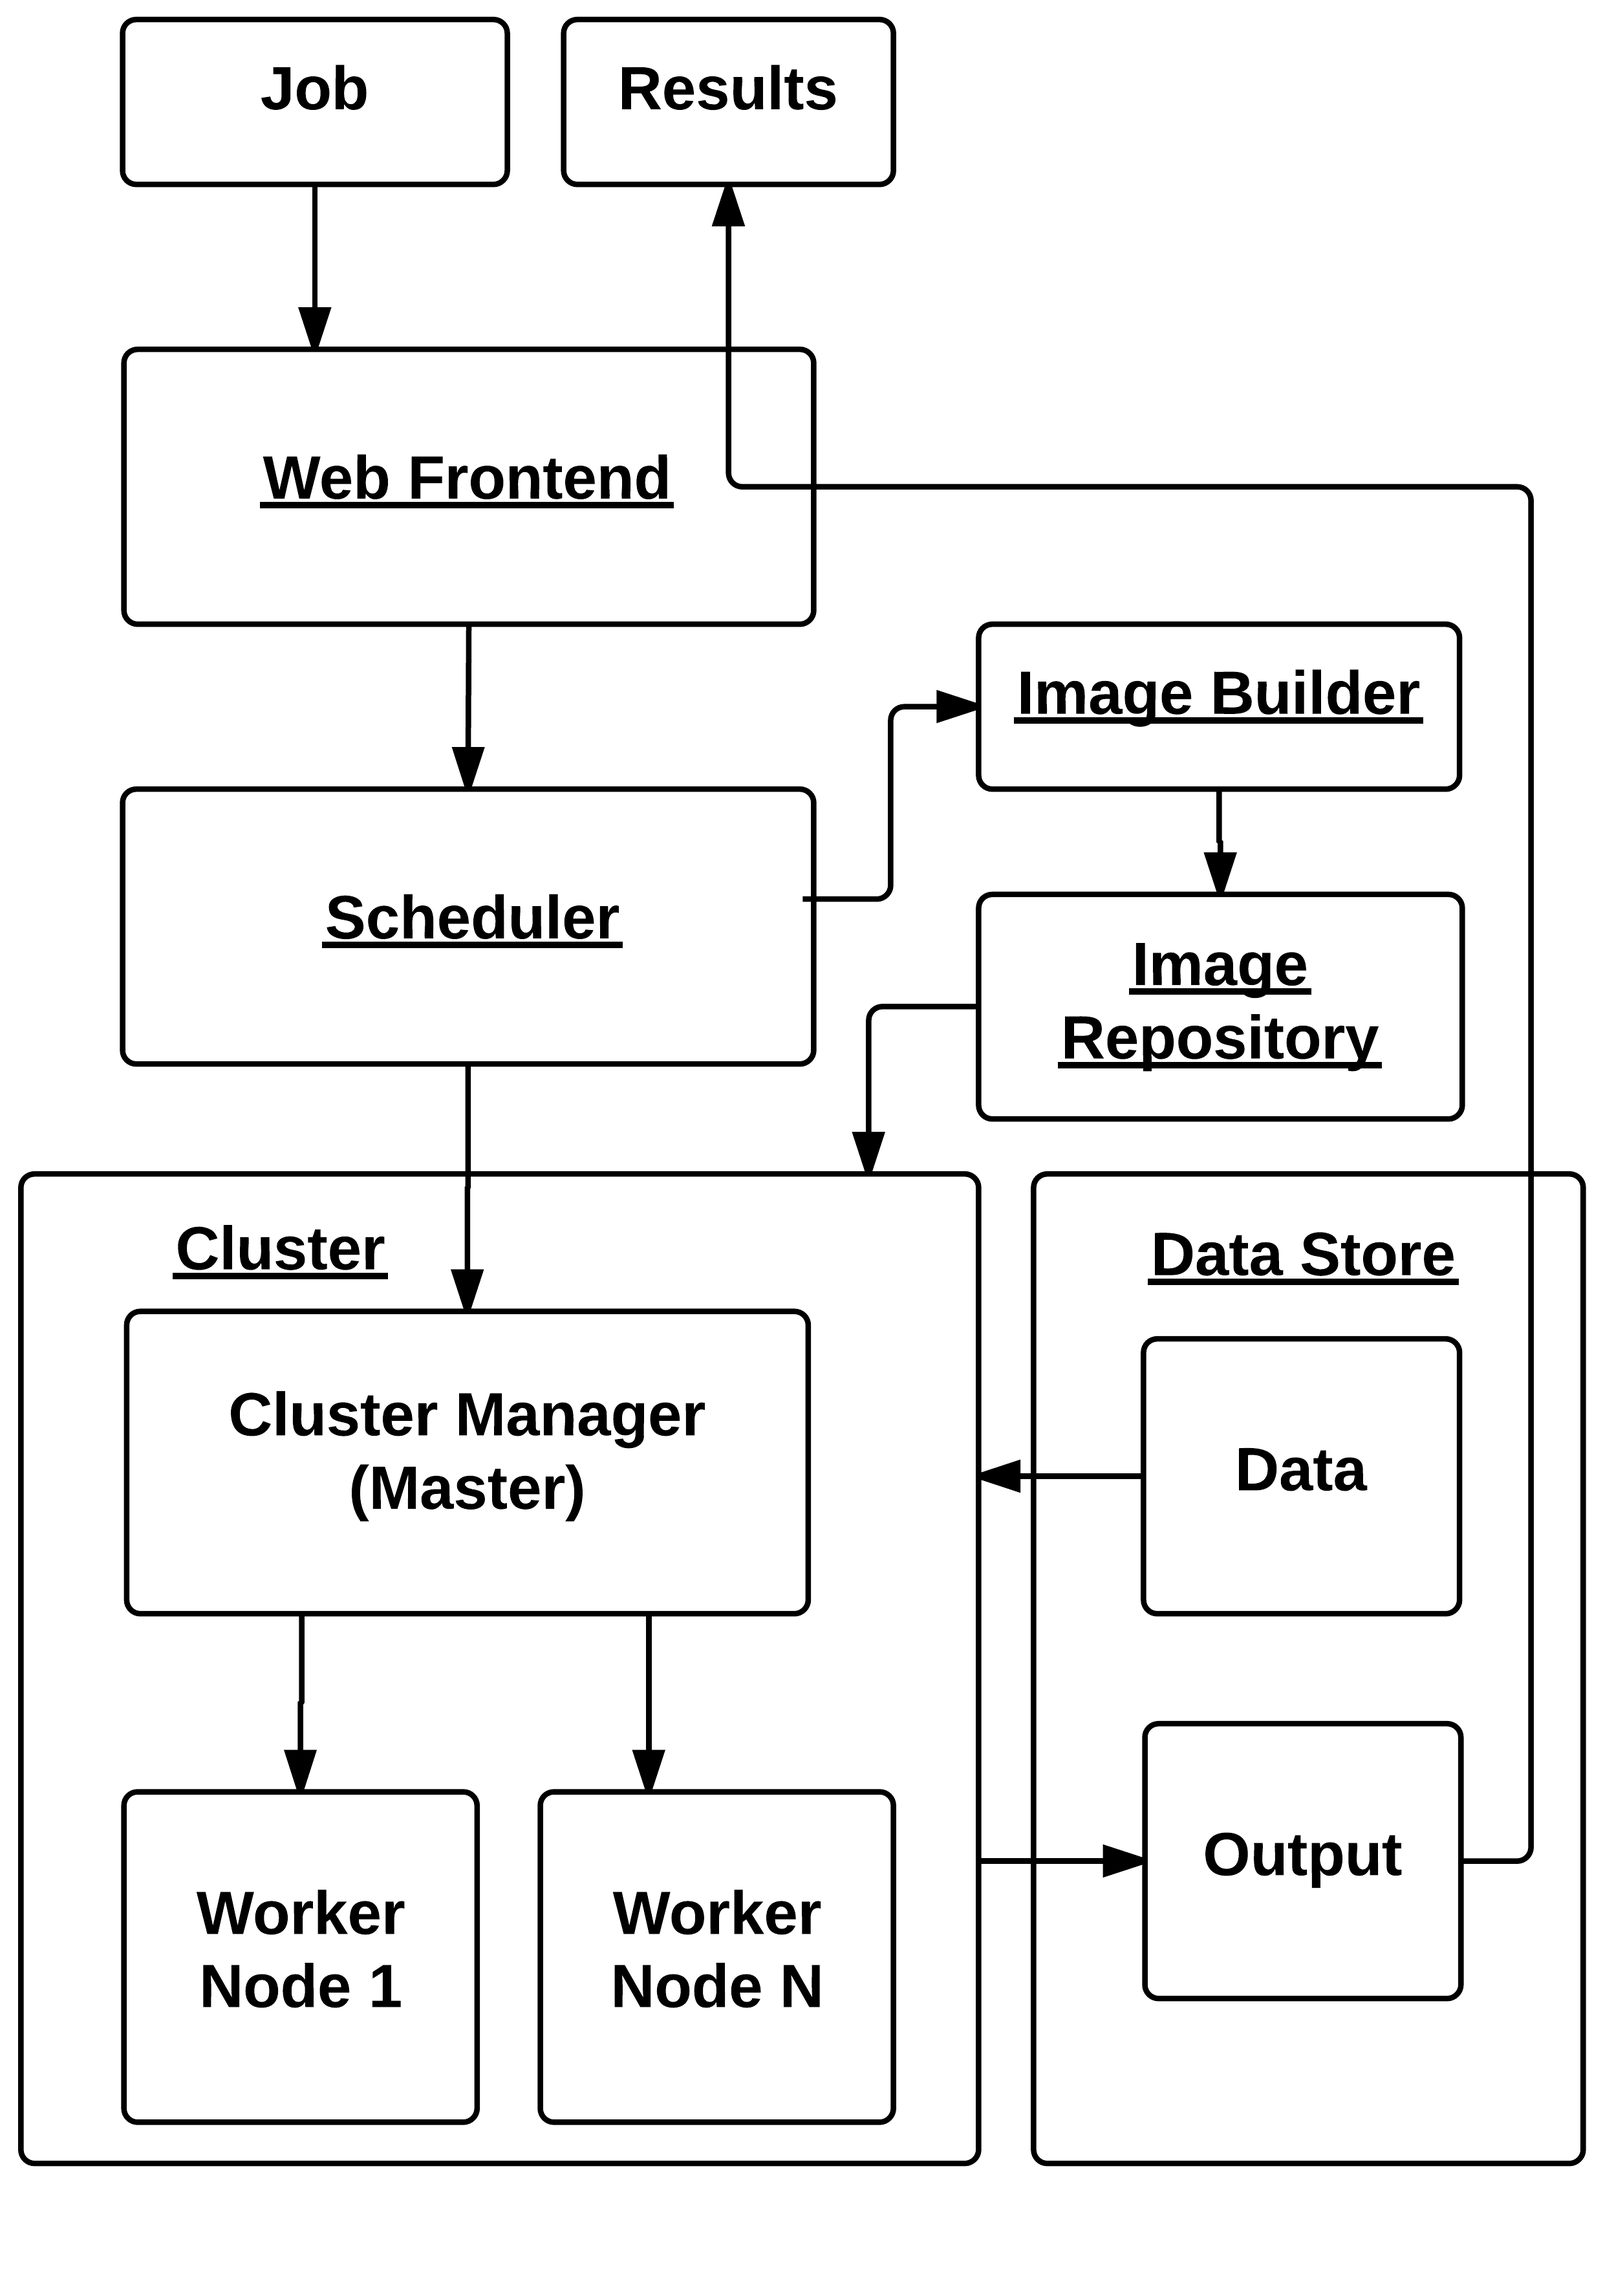
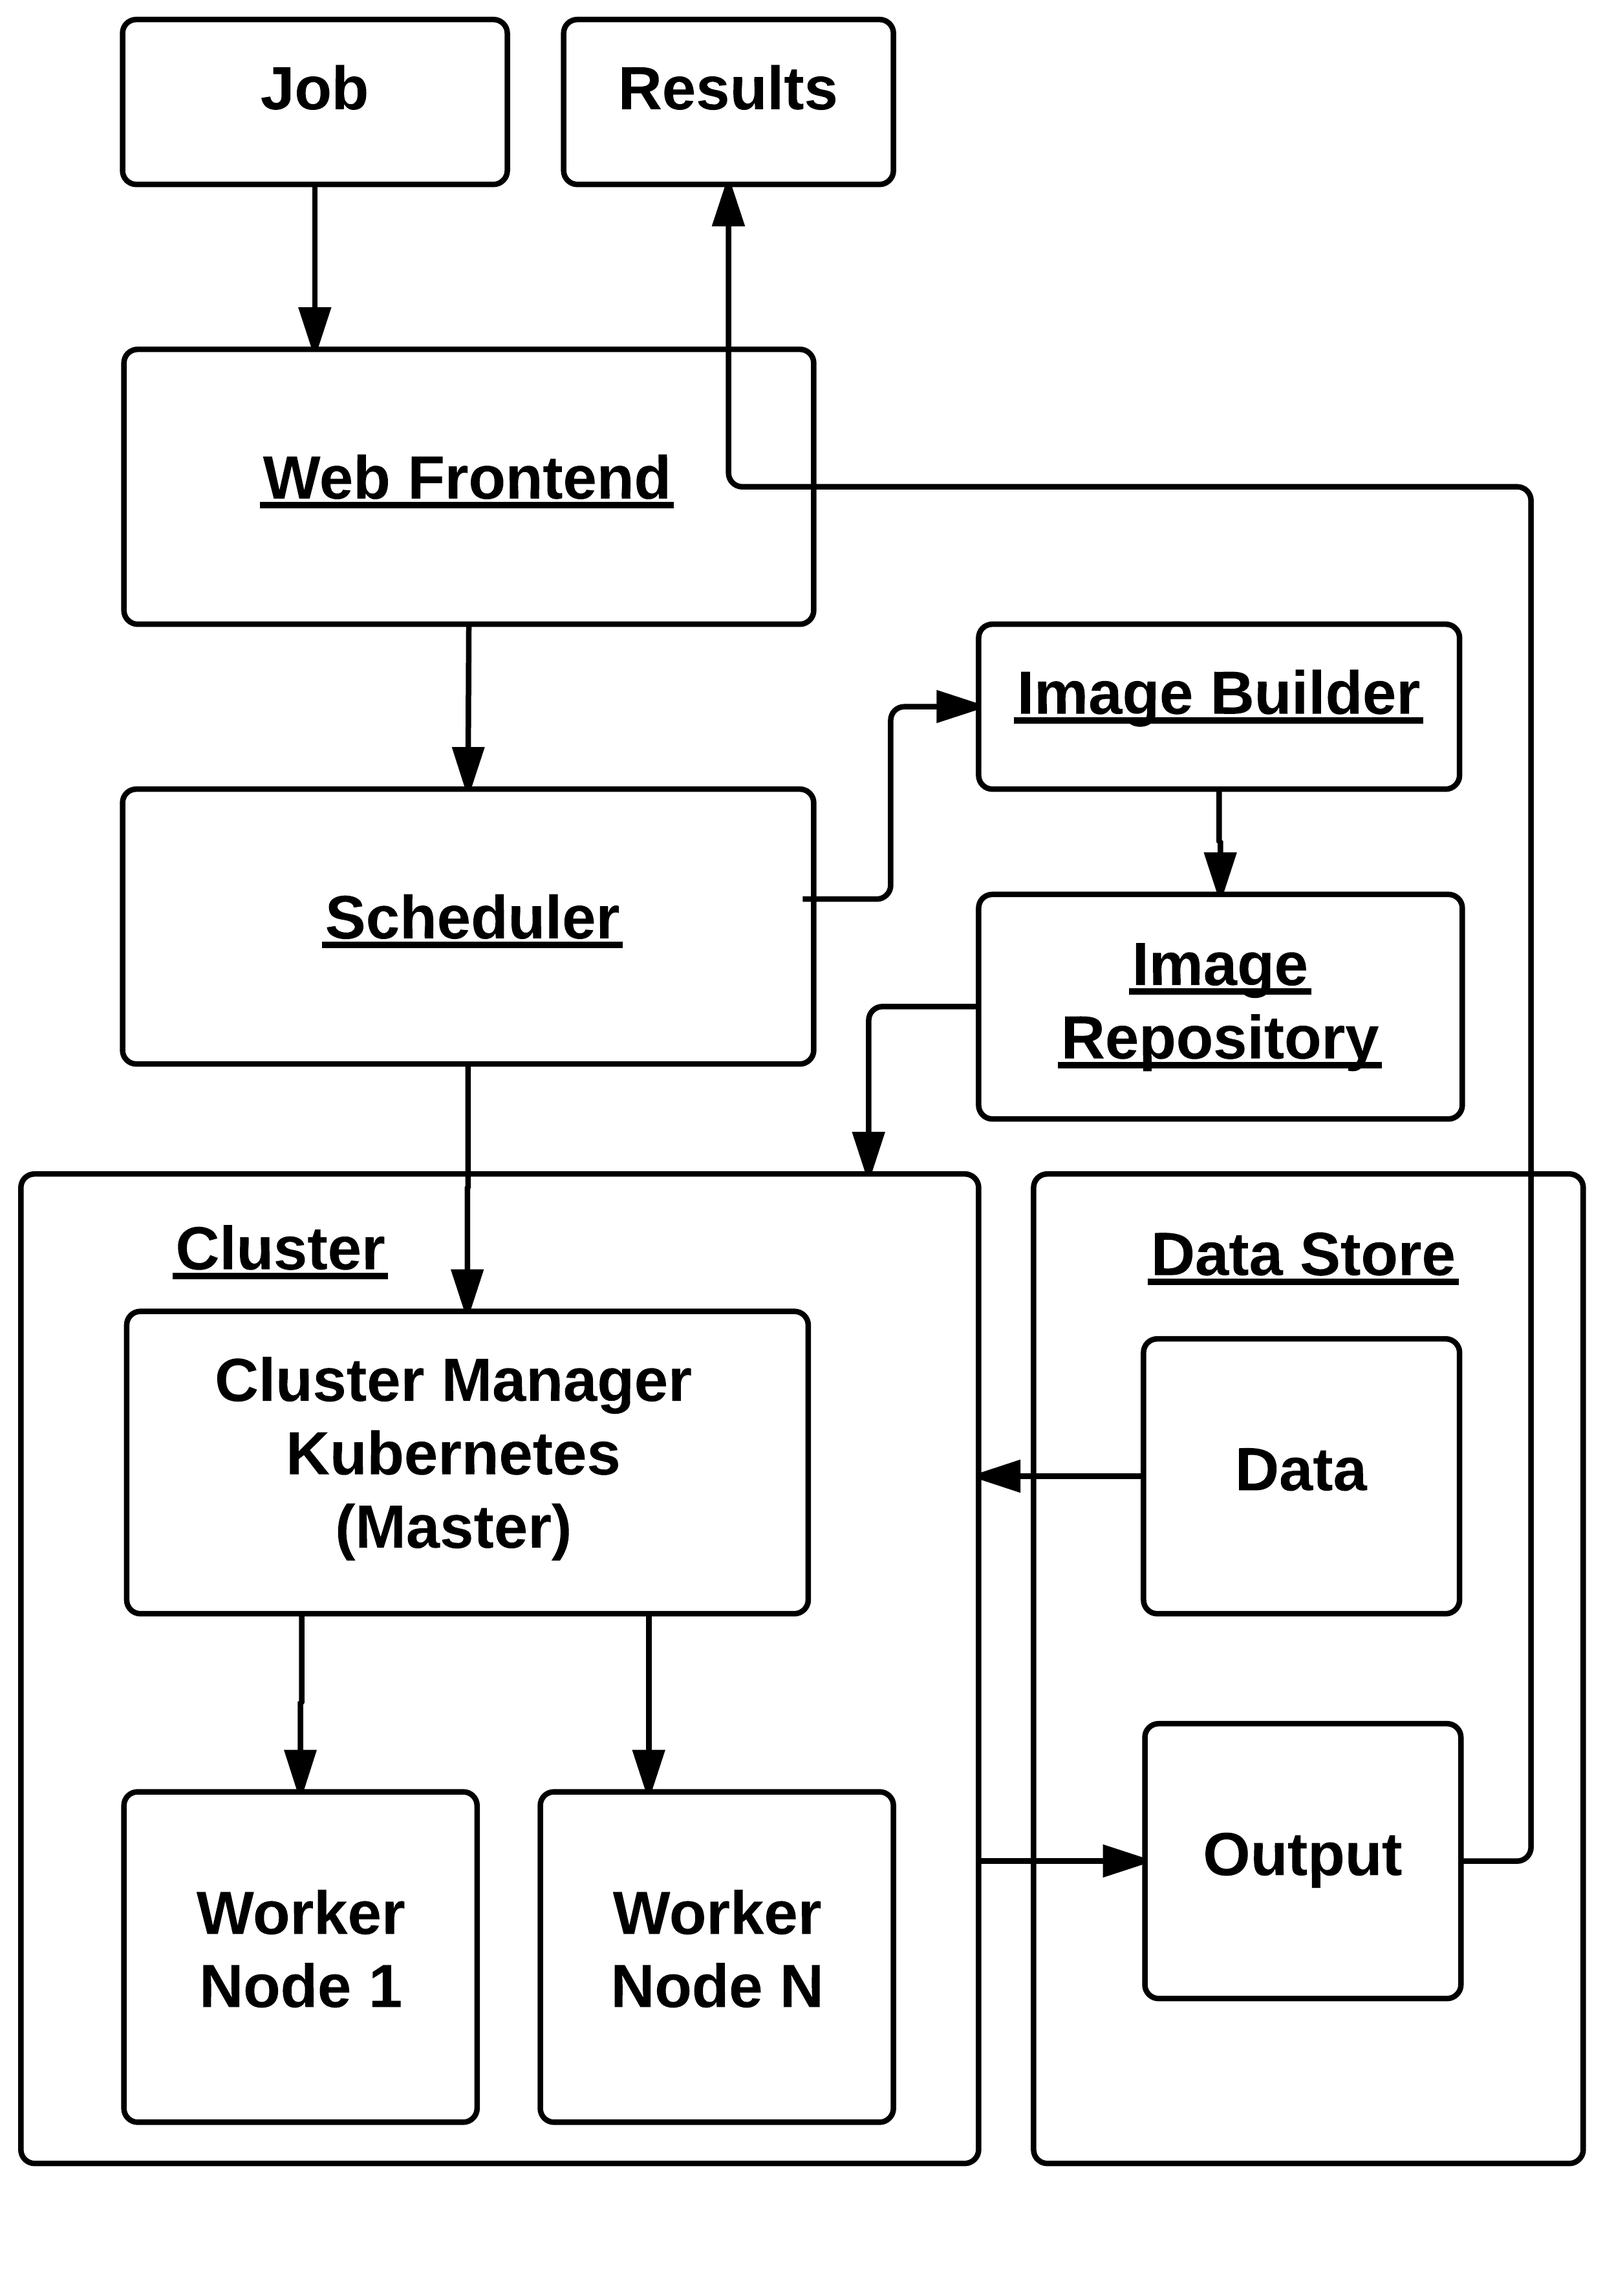
paper progress...

Changed region(s): [[0.125, 0.5921, 0.4375, 0.6856]]

diff --git a/latex/microcloud.tex b/latex/microcloud.tex
@@ -131,9 +131,6 @@ A community cloud is formed by implementing a centralised discovery service. Thi
 \end{figure}
 
 
-\subsection{Constraints}
-Micro cloud deployments for evaluation are limited to UWC. The evaluation was done on one community cloud containing two micro clouds. Each micro cloud was deployed on a single virtual machine (VM) as a single node cluster. Each VM has 1GB RAM, a single cpu, and 10GB of storage. Two 100Gb RBDs were provided, one for raw data and one for storing results. Due to both clusters residing on the same network, both clusters made use of the same storage. This would not be the case if each cluster was deployed at a different institution, but for the purposes of the evaluation it is not important.
-
 \subsection{Software Engineering}
 
 We implemented a proof-of-concept of the community cloud. The aim was not to focus on software engineering methodologies. However, to allow for reproducibility the source code is stored in a Git repository hosted on Github (Git is a version control system). All the components are containerized so a cluster can easily be deployed by running a few docker containers. This allows greater portability and reproducibility. 
@@ -142,6 +139,8 @@ We implemented a proof-of-concept of the community cloud. The aim was not to foc
 
 
 \subsection{Evaluation}
+Micro cloud deployments for evaluation are limited to UWC. The evaluation was done on one community cloud containing two micro clouds. Each micro cloud was deployed on a single virtual machine (VM) as a single node cluster. Each VM has 1GB RAM, a single cpu, and 10GB of storage. Two 100Gb RBDs were provided, one for raw data and one for storing results. Due to both clusters residing on the same network, both clusters made use of the same storage. This would not be the case if each cluster was deployed at a different institution, but for the purposes of the evaluation it is not important.
+\\\\
 The functionality of the micro cloud is evaluated by submitting sample Bioinformatics analysis code as a job. The analysis code searches against a genome database. We chose a database that is publicly hosted by the National Center for Biotechnology Information (NCBI), an institution dedicated to improving technologies used in genomic research \cite{pruitt2005ncbi}. The analysis code makes use of the Basic Local Alignment Search Tool (BLAST) \cite{camacho2009blast}. This tool specifies a database and submits a query containing specific search criteria. The job runs successfully if the container exits and results are available for download. The results consists of a single text file output by the BLAST tool which gives details according to the query submitted. Different sized jobs are tested by increasing or decreasing the size of the query, which makes it easily scalable to different sized test cases.
 \\\\
 The cloud platform was tested by submitting three jobs containing analysis code as described above. Each job tested a different sized query. After successful completion of each job the results were available for download, archived in a tar file. Each job's results contained a single text file created by the BLAST tool, which contained details about the query and the database and outputs generated based on evaluating the query with the database. The exact results output from the job do not give any insights regarding the evaluation of the cloud platform because we are testing the platform itself and not the analysis code. 
@@ -213,14 +212,26 @@ CMD blastp -db /db/ncbi_nr/nr -query query.fasta
 %\end{figure*}
 \subsection{Image Builder Bottleneck}
 Docker saves on storage space and bandwidth with regards to caching docker images. For example if one container uses an Ubuntu base image for the first time, the Ubuntu image must be downloaded. If a second container also uses the same Ubuntu image then it uses the cached copy instead of downloading the image again. This benefit comes from the layered filesystem that Docker uses. 
-The base image used in the evaluation is about 600MB in size. This should only have resulted in the first job submitted (which was using that base image) to have a longer build process. The subsequent jobs should have been built in a few seconds. This unfortunately was not the case. Every job took extremely long to move from the build queue to the ready queue. A bottleneck was found after a rigorous investigation. This bottleneck occurs between the Docker builder and the image repository. This means that building the image from the Dockerfile is indeed quick, given that the base image is already cached. The problem occurs when pushing the image to the repository. Docker appears to be pushing the entire image to the repository and spends a lot of time buffering the image to disk, before starting the upload to the repository. Poor performance with pushing a large Docker image seems to be a result of Docker implementation decisions specific to pushing an image to a remote repository. There have been issues opened on this topic on the official Docker Github repository.
+The base image used in the evaluation is about 600MB in size. This should only have resulted in a longer build process for the first job submitted (which was using that base image). The subsequent jobs should have been built in a few seconds. This unfortunately was not the case. Every job took extremely long to move from the build queue to the ready queue. A bottleneck was found after a rigorous investigation. This bottleneck occurs between the Docker builder and the image repository. This means that building the image from the Dockerfile is indeed quick, given that the base image is already cached. The problem occurs when pushing the image to the repository. Docker appears to be pushing the entire image to the repository and spends a lot of time buffering the image to disk, before starting the upload to the repository. Poor performance with pushing a large Docker image seems to be a result of Docker implementation decisions specific to pushing an image to a remote repository. There have been issues opened on this topic on the official Docker Github repository \cite{dockerpushperformance},\cite{dockercrossrepopush}.
 \\\\
 A change in core architecture of the cluster could fix this bottleneck. The proposed design would be to remove the single dedicated docker builder and instead make every worker node a docker builder. This would mean that the scheduling of building and running jobs would be more tightly integrated, as the image must be built on the worker node that it is scheduled to run on. This would eliminate the need for a private image repository and thus eliminate the process of pushing an image to a repository. Docker is already a dependency for every worker node to be able to run Docker containers. The only problem with this architecture is that it has to be supported by the cluster manager used. In the case of this cloud platform, Kubernetes unfortunately doesn't currently support it. 
 
 \section{Conclusions}
-The micro cloud platform implemented is only a proof of concept and requires much more work to be considered ready for deployment. Only the core functionality exists, which is submitting a job that is automatically built and scheduled onto a worker node, and allows downloading the results once the job is complete. It has proved that using Docker containers as a lightweight alternative to virtual machines is a good way to run jobs in an isolated environment, while making the execution environment flexible and user configurable. This is important as it does not restrict a user to a limited set of configured tools, and is thus more maintainable because the administrator is not required to keep the tools up to date. A user configurable environment does not mean that it is time consuming, because Dockerfiles allow re-using a specific environment and simply adding to it the extra requirements. The public Docker repository allows people to share their configured environment created by a Dockerfile. 
+The implemented micro cloud platform is proof that using Docker containers as a lightweight alternative to virtual machines is a good way to run jobs in an isolated environment, while making the execution environment flexible and user configurable. This is important as it does not restrict a user to a limited set of configured tools, and is thus more maintainable because the administrator is not required to keep the tools up to date. A user configurable environment does not mean that it is time consuming, because Dockerfiles allow re-using a specific environment and simply adding to it the extra requirements. The public Docker repository allows people to share their configured environment with the community. We made use of the public Docker repository in the evaluation and found an image configured with the NCBI Blast application. The image worked perfectly and eliminated the need for us to create our own image containing the Blast application.
 \\\\
-While Docker allows sharing of configured execution environments, sharing micro cloud deployments between institutions is the real focus. The discovery service creates a loosely coupled community cloud. It allows the user to see a list of the connected micro clouds and choose to redirect to a different micro cloud. This is simple but effective in promoting collaboration between micro clouds.
+While Docker allows sharing of configured execution environments, sharing micro cloud deployments between institutions is the real focus for improving collaboration. The discovery service creates a loosely coupled community cloud. It allows the user to see a list of the connected micro clouds and choose to redirect to a different micro cloud. This is simple but effective in promoting collaboration between micro clouds.
+\\\\
+The implemented micro cloud platform enables a user to submit a job, which it then automatically builds and schedules onto a worker node. Once the job is complete it allows the user to download the results. The user is able to view the job queue and the status of each job. Together with the discovery service, this makes up the core functionality of the micro cloud platform and provides a proof-of-concept that focuses on using Docker containers for running batch jobs. A useful function that the implementation does not provide, is the ability to stop and remove a running container. Once a user submits a job it can not be cancelled and has to run to completion. Completed jobs stay in the queue to allow the user to download the results and can be removed by the user. 
+\\\\
+Originally, one of the aims of the micro cloud was to allow the user to view the raw data that is available
+on the micro cloud and specify data to be mounted in the job's container. This would have been done by using Kubernetes to mount an RBD in the container. A single dataset would then reside on an RBD and a new dataset would be copied to its own RBD. Unfortunately we were unable to get this functionality of Kubernetes to work. We resorted to mounting a single RBD for all raw data on the host outside of Kubernetes and use it as host storage inside Kubernetes. This means that a user does not have the option of selecting raw data to mount inside the container, instead, all available raw data is mounted in every container. This was not a problem for the evaluation as we only dealt with a single dataset, it is however a major shortcoming in the functionality of the micro cloud. 
+
+
+
+The implementation entirely neglects security and does not provide any sort of authentication mechanism.
+
+
+
 
 \subsection{Future Work}
 The micro cloud platform provides basic functionality, but entirely neglects aspects such as security. The discovery service needs to be extended to include a central authentication system which allows users from any micro cloud to login and use any other connected micro cloud. Security would also include managing access to raw data. There might be privacy concerns with certain data and more granular access control to specific data would be required to meet security standards.
